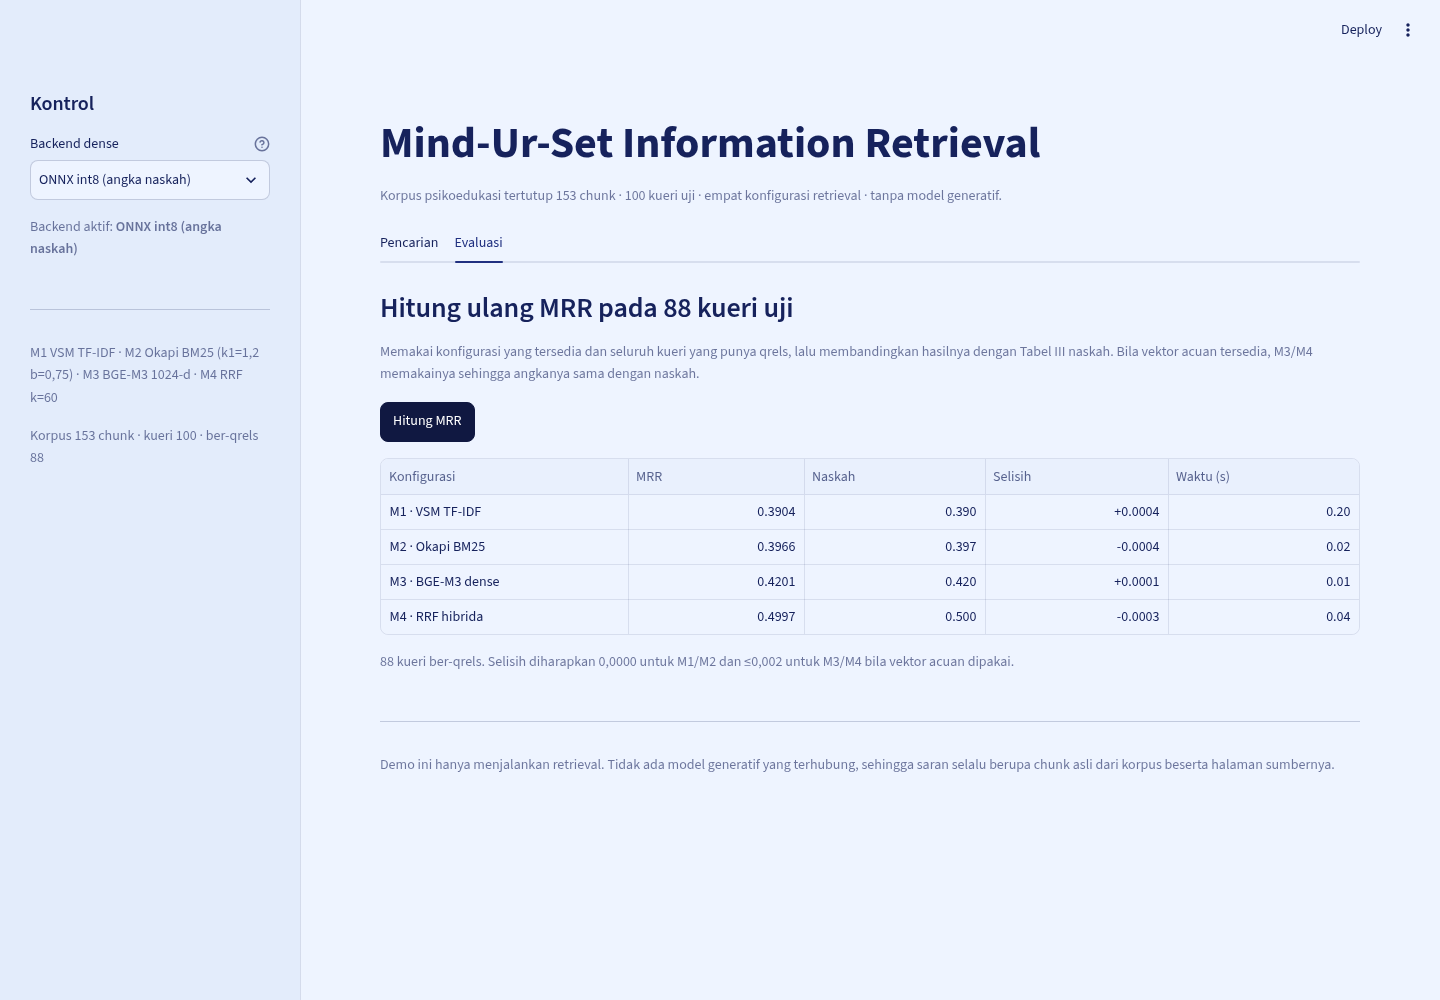
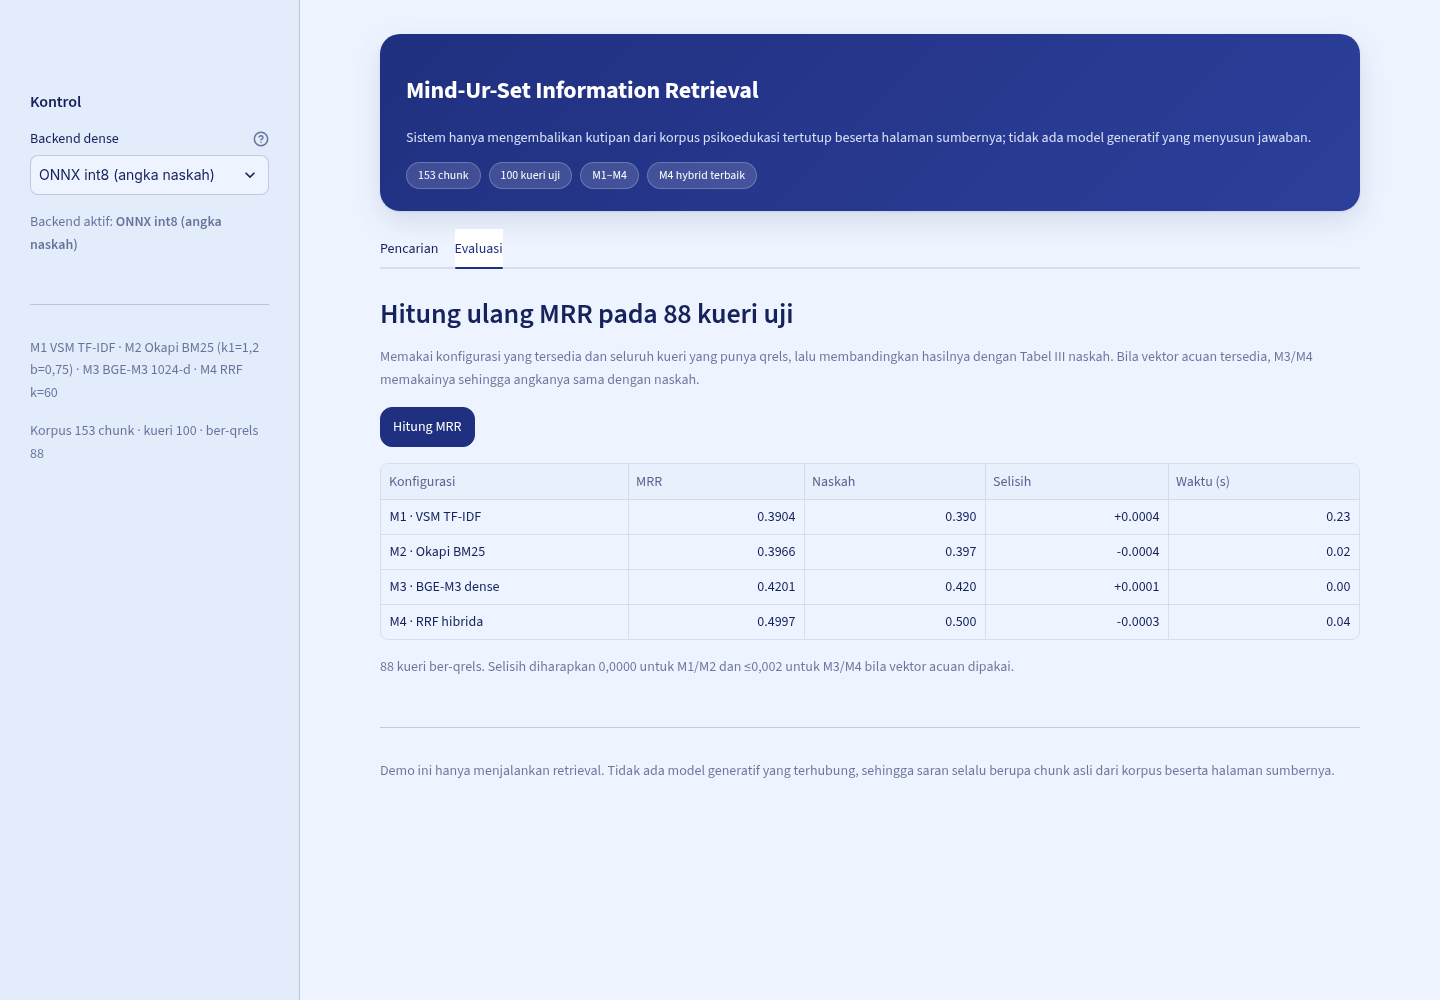
feat: apply mindurset design skin to the demo interface

diff --git a/ui_tema.py b/ui_tema.py
@@ -1,0 +1,174 @@
+"""Skin visual Mind-Ur-Set untuk Streamlit.
+
+Token warna diambil apa adanya dari aplikasi Android Mind-Ur-Set
+(`app/src/main/java/com/mindurset/app/ui/theme/Color.kt`), sehingga demo
+retrieval ini tampil satu keluarga dengan prototipe produknya.
+
+Semua yang ada di sini murni presentasi: tidak ada logika retrieval, tidak ada
+ketergantungan pada Streamlit selain `st.markdown`.
+"""
+from __future__ import annotations
+
+import html
+
+import streamlit as st
+
+NAVY = "#203080"
+INK = "#16225C"
+CANVAS = "#EEF4FF"
+PALE = "#E3ECFB"
+LAVENDER = "#E0D8E8"
+MUTED = "#565E70"
+OUTLINE = "#D3DDF0"
+HIJAU = "#2E7D32"
+HIJAU_MUDA = "#E3F2E7"
+MERAH = "#B3261E"
+
+_CSS = f"""
+<style>
+.stApp {{ background: {CANVAS}; }}
+html, body, [class*="css"] {{
+    font-family: "Inter", "Segoe UI", system-ui, -apple-system, sans-serif;
+    color: {INK};
+}}
+header[data-testid="stHeader"] {{ background: transparent; }}
+[data-testid="stToolbar"] {{ right: 0.5rem; }}
+.block-container {{ padding-top: 1.1rem; padding-bottom: 3rem; max-width: 1240px; }}
+
+/* ---- hero ---- */
+.hero {{
+    background: linear-gradient(135deg, {NAVY} 0%, #2C3F9A 100%);
+    border-radius: 20px; padding: 22px 26px; color: #fff;
+    box-shadow: 0 1px 2px rgba(27,42,94,.10), 0 10px 28px rgba(27,42,94,.12);
+    margin-bottom: 18px;
+}}
+.hero h1 {{ margin: 0; font-size: 1.5rem; font-weight: 700; letter-spacing: -.01em; color: #fff; }}
+.hero p {{ margin: 7px 0 0; color: #D8E0FA; font-size: .88rem; }}
+.hero .deret {{ margin-top: 12px; display: flex; gap: 8px; flex-wrap: wrap; }}
+.hero .deret span {{
+    background: rgba(255,255,255,.14); border: 1px solid rgba(255,255,255,.22);
+    color: #fff; border-radius: 999px; padding: 3px 11px; font-size: .74rem;
+}}
+
+/* ---- kartu ---- */
+.kartu {{
+    background: #fff; border: 1px solid {OUTLINE}; border-radius: 16px;
+    box-shadow: 0 1px 2px rgba(27,42,94,.08), 0 6px 18px rgba(27,42,94,.06);
+    margin-bottom: 10px; overflow: hidden;
+}}
+.kartu summary {{
+    list-style: none; cursor: pointer; padding: 12px 16px; display: flex;
+    gap: 10px; align-items: baseline; flex-wrap: wrap;
+}}
+.kartu summary::-webkit-details-marker {{ display: none; }}
+.kartu summary:hover {{ background: #F7FAFF; }}
+.kartu .pos {{ color: {MUTED}; font-variant-numeric: tabular-nums; min-width: 1.6em; }}
+.kartu .id {{ font-family: ui-monospace, SFMono-Regular, Menlo, monospace;
+              font-weight: 700; color: {NAVY}; font-size: .9rem; }}
+.kartu .lokasi {{ color: {MUTED}; font-size: .76rem; }}
+.kartu .tanda {{ color: {HIJAU}; font-weight: 700; }}
+.kartu .badan {{ padding: 0 16px 14px 16px; border-top: 1px solid #EDF2FB; }}
+.kartu .badan p {{ margin: 12px 0 8px; font-size: .88rem; line-height: 1.55; color: {INK}; }}
+.kartu .meta {{ color: {MUTED}; font-size: .74rem; }}
+.kartu.relevan {{ border-left: 3px solid {HIJAU}; }}
+.kartu.relevan summary {{ background: {HIJAU_MUDA}; }}
+
+/* ---- lencana ---- */
+.lencana {{
+    display: inline-block; border-radius: 999px; padding: 2px 10px;
+    font-size: .72rem; font-weight: 600; background: {PALE}; color: {NAVY};
+    margin-right: 6px;
+}}
+.lencana.hijau {{ background: {HIJAU_MUDA}; color: {HIJAU}; }}
+.lencana.lavender {{ background: {LAVENDER}; color: #3C2F55; }}
+.lencana.merah {{ background: #FBE9E7; color: {MERAH}; }}
+
+/* ---- widget ---- */
+.stButton button, .stDownloadButton button {{
+    border-radius: 12px; font-weight: 600; border: 1px solid {OUTLINE};
+}}
+.stButton button[kind="primary"] {{ background: {NAVY}; border-color: {NAVY}; }}
+[data-baseweb="input"], [data-baseweb="textarea"], .stTextArea textarea, .stTextInput input {{
+    border-radius: 12px !important; background: #fff !important;
+}}
+button[data-variant="pills"], button[data-variant="segmented_control"] {{
+    border-radius: 999px !important; font-weight: 600;
+}}
+button[data-variant="pills"][data-selected="true"],
+button[data-variant="segmented_control"][data-selected="true"] {{
+    background: {NAVY} !important; border-color: {NAVY} !important;
+}}
+button[data-variant="pills"][data-selected="true"] p,
+button[data-variant="pills"][data-selected="true"] span,
+button[data-variant="segmented_control"][data-selected="true"] p,
+button[data-variant="segmented_control"][data-selected="true"] span {{
+    color: #fff !important;
+}}
+button[data-variant="pills"] {{ padding: 4px 14px !important; }}
+[data-testid="stSidebar"] {{
+    background: {PALE}; border-right: 1px solid {OUTLINE};
+}}
+[data-testid="stSidebar"] h2 {{ font-size: 1rem; }}
+.stTabs [data-baseweb="tab-list"] {{ gap: 4px; }}
+.stTabs [data-baseweb="tab"] {{ border-radius: 10px 10px 0 0; }}
+.stTabs [aria-selected="true"] {{ background: #fff; }}
+h3 {{ font-size: 1.02rem; color: {INK}; margin-top: 1.1rem; }}
+[data-testid="stMetricValue"] {{ font-size: 1.25rem; color: {NAVY}; }}
+[data-testid="stMetricDelta"] {{ font-size: .75rem; }}
+.kosong {{
+    background: #fff; border: 1px dashed {OUTLINE}; border-radius: 16px;
+    padding: 22px 24px; color: {MUTED}; font-size: .88rem;
+}}
+.kosong strong {{ color: {INK}; }}
+</style>
+"""
+
+
+def pasang() -> None:
+    """Sisipkan CSS global. Panggil sekali, setelah `st.set_page_config`."""
+    st.markdown(_CSS, unsafe_allow_html=True)
+
+
+def hero(judul: str, subjudul: str, lencana: list[str] | None = None) -> None:
+    deret = "".join(f"<span>{html.escape(x)}</span>" for x in (lencana or []))
+    st.markdown(
+        f'<div class="hero"><h1>{html.escape(judul)}</h1>'
+        f'<p>{html.escape(subjudul)}</p>'
+        f'{f"<div class=deret>{deret}</div>" if deret else ""}</div>',
+        unsafe_allow_html=True,
+    )
+
+
+def lencana(teks: str, jenis: str = "") -> str:
+    kelas = f"lencana {jenis}".strip()
+    return f'<span class="{kelas}">{html.escape(str(teks))}</span>'
+
+
+def kartu(
+    pos: int,
+    doc_id: str,
+    lokasi: str,
+    teks: str,
+    relevan: bool,
+    catatan: list[str] | None = None,
+    buka: bool = False,
+) -> str:
+    """Satu kartu hasil. Memakai <details> agar bisa dibuka tanpa st.expander."""
+    tanda = '<span class="tanda">✓ relevan</span>' if relevan else ""
+    kelas = "kartu relevan" if relevan else "kartu"
+    meta = " · ".join(html.escape(c) for c in (catatan or []))
+    return (
+        f'<details class="{kelas}"{" open" if buka else ""}>'
+        f'<summary><span class="pos">{pos}.</span>'
+        f'<span class="id">{html.escape(doc_id)}</span>'
+        f'<span class="lokasi">{html.escape(lokasi)}</span>{tanda}</summary>'
+        f'<div class="badan"><p>{html.escape(teks)}</p>'
+        f'<div class="meta">{meta}</div></div></details>'
+    )
+
+
+def kosong(judul: str, isi: str) -> None:
+    st.markdown(
+        f'<div class="kosong"><strong>{html.escape(judul)}</strong><br>{html.escape(isi)}</div>',
+        unsafe_allow_html=True,
+    )

diff --git a/app.py b/app.py
@@ -22,6 +22,7 @@ import numpy as np
 import streamlit as st
 
 import encoder
+import ui_tema
 from mesin import BM25, TFIDF, cari_dense_vektor, rrf, tokenize
 
 ROOT = pathlib.Path(__file__).resolve().parent
@@ -54,6 +55,7 @@ POLA_RISIKO = (
 _RE_RISIKO = re.compile("|".join(POLA_RISIKO), re.IGNORECASE)
 
 st.set_page_config(page_title="Mind-Ur-Set Information Retrieval", page_icon="🔎", layout="wide")
+ui_tema.pasang()
 
 
 # --------------------------------------------------------------------------
@@ -212,10 +214,11 @@ def kartu_bantuan() -> None:
 # --------------------------------------------------------------------------
 # kepala halaman
 # --------------------------------------------------------------------------
-st.title("Mind-Ur-Set Information Retrieval")
-st.caption(
-    "Korpus psikoedukasi tertutup 153 chunk · 100 kueri uji · empat konfigurasi retrieval · "
-    "tanpa model generatif."
+ui_tema.hero(
+    "Mind-Ur-Set Information Retrieval",
+    "Sistem hanya mengembalikan kutipan dari korpus psikoedukasi tertutup beserta halaman "
+    "sumbernya; tidak ada model generatif yang menyusun jawaban.",
+    [f"{len(KORPUS)} chunk", f"{len(KUERI)} kueri uji", "M1–M4", "M4 hybrid terbaik"],
 )
 
 with st.sidebar:
@@ -270,13 +273,18 @@ with tab_cari:
             st.info(f"**{qid}** ({q['bahasa']}) — {len(QRELS[qid])} chunk relevan · “{teks_kueri}”")
     with kol_kanan:
         bawaan = [n for n in tersedia_nama if n.startswith(("M2", "M3", "M4"))] or tersedia_nama[:2]
-        metode_pilih = st.multiselect(
+        st.markdown("**Konfigurasi**")
+        pilih_kode = st.pills(
             "Konfigurasi",
-            tersedia_nama,
+            options=tersedia_nama,
             default=bawaan,
+            selection_mode="multi",
             format_func=lambda n: n.split(" · ")[0],
+            label_visibility="collapsed",
             help="M1 VSM TF-IDF · M2 BM25 · M3 BGE-M3 · M4 RRF",
         )
+        metode_pilih = pilih_kode or []
+        st.caption("Pilih satu atau beberapa konfigurasi untuk dibandingkan.")
         topk = st.slider("Kedalaman peringkat", 3, 20, 10)
         bahasa = st.radio("Saringan bahasa dokumen", ["Semua", "Indonesia", "Inggris"])
         tampil_teks = st.slider("Panjang teks ditampilkan (karakter)", 200, 1200, 400, step=100)
@@ -353,22 +361,41 @@ with tab_cari:
         for nama, urut in hasil.items():
             st.subheader(nama)
             if not urut:
-                st.write("_tidak ada hasil; tidak ada kata kueri yang cocok pada konfigurasi ini._")
+                ui_tema.kosong(
+                    "Tidak ada hasil",
+                    "Tidak ada kata kueri yang cocok pada konfigurasi ini. Coba konfigurasi lain "
+                    "atau longgarkan saringan bahasa.",
+                )
                 continue
+            kartu_html = []
             for pos, doc_id in enumerate(urut, start=1):
                 d = KOR[doc_id]
-                benar = doc_id in relevan
-                tanda = "✅ " if benar else ("· " if simpan["qid"] else "")
-                judul = f"{tanda}**{pos}.** `{doc_id}` · {lokasi(d)}"
-                with st.expander(judul, expanded=(pos <= 2 and not simpan["risiko"])):
-                    teks = d["teks"]
-                    st.write(teks[:tampil_teks] + ("…" if len(teks) > tampil_teks else ""))
-                    sama, cakupan = tumpang_tindih(simpan["teks"], doc_id)
-                    st.caption(
-                        f"{d.get('token', '?')} token · kemiripan istilah {cakupan:.0%} · "
-                        f"istilah sama: {', '.join(sama[:12]) if sama else '—'}"
+                teks = d["teks"]
+                sama, cakupan = tumpang_tindih(simpan["teks"], doc_id)
+                kartu_html.append(
+                    ui_tema.kartu(
+                        pos=pos,
+                        doc_id=doc_id,
+                        lokasi=lokasi(d),
+                        teks=teks[:tampil_teks] + ("…" if len(teks) > tampil_teks else ""),
+                        relevan=doc_id in relevan,
+                        catatan=[
+                            f"{d.get('token', '?')} token",
+                            f"kemiripan istilah {cakupan:.0%}",
+                            f"istilah sama: {', '.join(sama[:10]) if sama else '—'}",
+                            f"lisensi {d.get('lisensi', '?')}",
+                        ],
+                        buka=(pos <= 2 and not simpan["risiko"]),
                     )
-                    st.caption(f"Lisensi: {d.get('lisensi', '?')}")
+                )
+            st.markdown("".join(kartu_html), unsafe_allow_html=True)
+    else:
+        ui_tema.kosong(
+            "Belum ada hasil",
+            "Tulis keluhan pada kotak di atas lalu tekan Cari — atau pilih mode “Kueri uji” "
+            "untuk mencoba kueri yang sudah punya kunci relevansi. Contoh: “sulit tidur karena "
+            "pikiran berputar”, “cara menenangkan diri saat panik”, “how to stop avoiding people”.",
+        )
 
 # ==========================================================================
 # TAB 2 — evaluasi

diff --git a/tests/test_app.py b/tests/test_app.py
@@ -9,36 +9,58 @@ from streamlit.testing.v1 import AppTest
 ROOT = pathlib.Path(__file__).resolve().parents[1]
 sys.path.insert(0, str(ROOT))
 APP = str(ROOT / "app.py")
+M1 = "M1 · VSM TF-IDF"
+M2 = "M2 · Okapi BM25"
+
+
+def _markdown(at) -> str:
+    return " ".join(m.value for m in at.markdown)
 
 
 def test_app_memuat_tanpa_exception():
     at = AppTest.from_file(APP, default_timeout=120).run()
     assert not at.exception
-    assert at.title[0].value == "Mind-Ur-Set Information Retrieval"
+    assert "Mind-Ur-Set Information Retrieval" in _markdown(at)
+
+
+def test_hero_dan_kosong_tampil_awal():
+    at = AppTest.from_file(APP, default_timeout=120).run()
+    isi = _markdown(at)
+    assert 'class="hero"' in isi
+    assert "Belum ada hasil" in isi
 
 
 def test_pencarian_menampilkan_hasil():
     at = AppTest.from_file(APP, default_timeout=120).run()
-    # pilih M1 dan M2 saja agar tidak perlu encoder dense
-    at.multiselect[0].set_value(["M1 · VSM TF-IDF", "M2 · Okapi BM25"]).run()
+    at.pills[0].set_value([M1, M2]).run()
     at.button[0].click().run()
     assert not at.exception
     label = [s.value for s in at.subheader]
     assert any("VSM" in s for s in label) and any("BM25" in s for s in label)
 
 
+def test_kartu_hasil_dirender():
+    at = AppTest.from_file(APP, default_timeout=120).run()
+    at.pills[0].set_value([M1]).run()
+    at.button[0].click().run()
+    isi = _markdown(at)
+    assert 'class="kartu' in isi
+    assert "<summary>" in isi
+
+
 def test_kueri_berisiko_memunculkan_peringatan():
     at = AppTest.from_file(APP, default_timeout=120).run()
-    at.multiselect[0].set_value(["M1 · VSM TF-IDF"]).run()
+    at.pills[0].set_value([M1]).run()
     at.text_area[0].set_value("aku sudah tidak ingin hidup, mau mengakhiri semuanya").run()
     at.button[0].click().run()
     assert not at.exception
     pesan = " ".join(e.value for e in at.error)
     assert "119" in pesan and "SEJIWA" in pesan
 
+
 def test_kueri_tanpa_kata_ditolak():
     at = AppTest.from_file(APP, default_timeout=120).run()
-    at.multiselect[0].set_value(["M1 · VSM TF-IDF"]).run()
+    at.pills[0].set_value([M1]).run()
     at.text_area[0].set_value("???").run()
     at.button[0].click().run()
     assert not at.exception
@@ -48,7 +70,7 @@ def test_kueri_tanpa_kata_ditolak():
 
 def test_hasil_bertahan_saat_slider_diubah():
     at = AppTest.from_file(APP, default_timeout=120).run()
-    at.multiselect[0].set_value(["M1 · VSM TF-IDF"]).run()
+    at.pills[0].set_value([M1]).run()
     at.button[0].click().run()
     jumlah_awal = len(at.subheader)
     at.slider[-1].set_value(700).run()
@@ -58,7 +80,7 @@ def test_hasil_bertahan_saat_slider_diubah():
 def test_frasa_risiko_varian_terdeteksi():
     for frasa in ("mau mati aja", "bundir", "suicidal", "gak kuat hidup", "capek hidup"):
         at = AppTest.from_file(APP, default_timeout=120).run()
-        at.multiselect[0].set_value(["M1 · VSM TF-IDF"]).run()
+        at.pills[0].set_value([M1]).run()
         at.text_area[0].set_value(frasa).run()
         at.button[0].click().run()
         pesan = " ".join(e.value for e in at.error)

diff --git a/README.md b/README.md
@@ -47,6 +47,8 @@ pip install -r requirements-torch.txt
 
 | Bagian | Keterangan |
 |---|---|
+| Hero dan tema | Warna dan tipografi memakai token aplikasi Mind-Ur-Set (`Color.kt`): navy #203080, kanvas #EEF4FF, tinta #16225C |
+| Kartu hasil | Satu kartu per *chunk*, dapat dibuka; *chunk* relevan bergaris dan berlatar hijau |
 | Kartu keselamatan | Muncul hanya untuk kueri berfrasa risiko, dengan rujukan 119 ext. 8 (SEJIWA), 112, IGD, dan findahelpline.com |
 | Mode kueri bebas | Tulis keluhan apa pun, lihat peringkat *chunk* |
 | Mode kueri uji | Pilih dari 88 kueri uji yang punya kunci relevansi |
@@ -102,6 +104,7 @@ tetap bergeser (kosinus ≈0,98 terhadap vektor naskah) karena int8 tidak determ
 ```
 mindurset-ir-demo/
 ├── app.py                 antarmuka Streamlit (tab Pencarian dan Evaluasi)
+├── ui_tema.py             skin visual Mind-Ur-Set: CSS, hero, kartu, lencana
 ├── mesin.py               M1, M2, M3, M4 + metrik (tanpa Streamlit)
 ├── encoder.py             pengodean kueri ONNX int8, cadangan torch
 ├── siapkan_data.py        sinkron data dari repo who-ir, periksa, bangun ulang vektor
@@ -134,9 +137,10 @@ pip install -r requirements-dev.txt
 pytest -q
 ```
 
-Sebelas uji: kesesuaian jumlah data, tokenisasi vs harness, MRR M1/M2, determinisme RRF, metrik
-pada contoh kecil, aplikasi memuat, pencarian menampilkan hasil, kartu risiko, kueri tanpa kata
-ditolak, hasil bertahan saat slider diubah, dan lima varian frasa risiko terdeteksi.
+Tiga belas uji: kesesuaian jumlah data, tokenisasi vs harness, MRR M1/M2, determinisme RRF, metrik
+pada contoh kecil, aplikasi memuat, hero dan *empty state*, pencarian menampilkan hasil, kartu hasil
+ter-render, kartu risiko, kueri tanpa kata ditolak, hasil bertahan saat slider diubah, dan lima
+varian frasa risiko terdeteksi.
 
 ## Deploy
 
